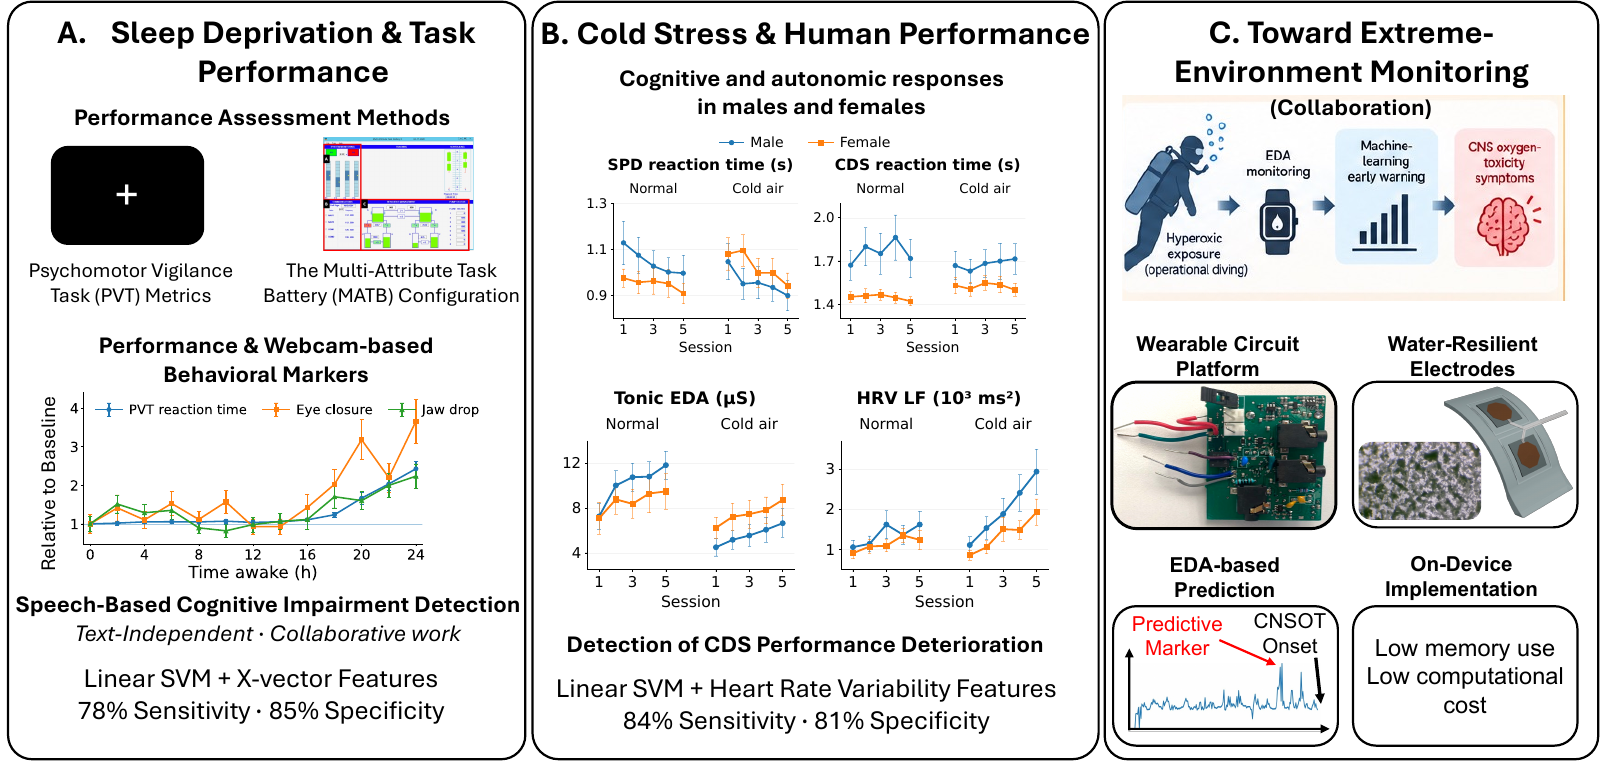
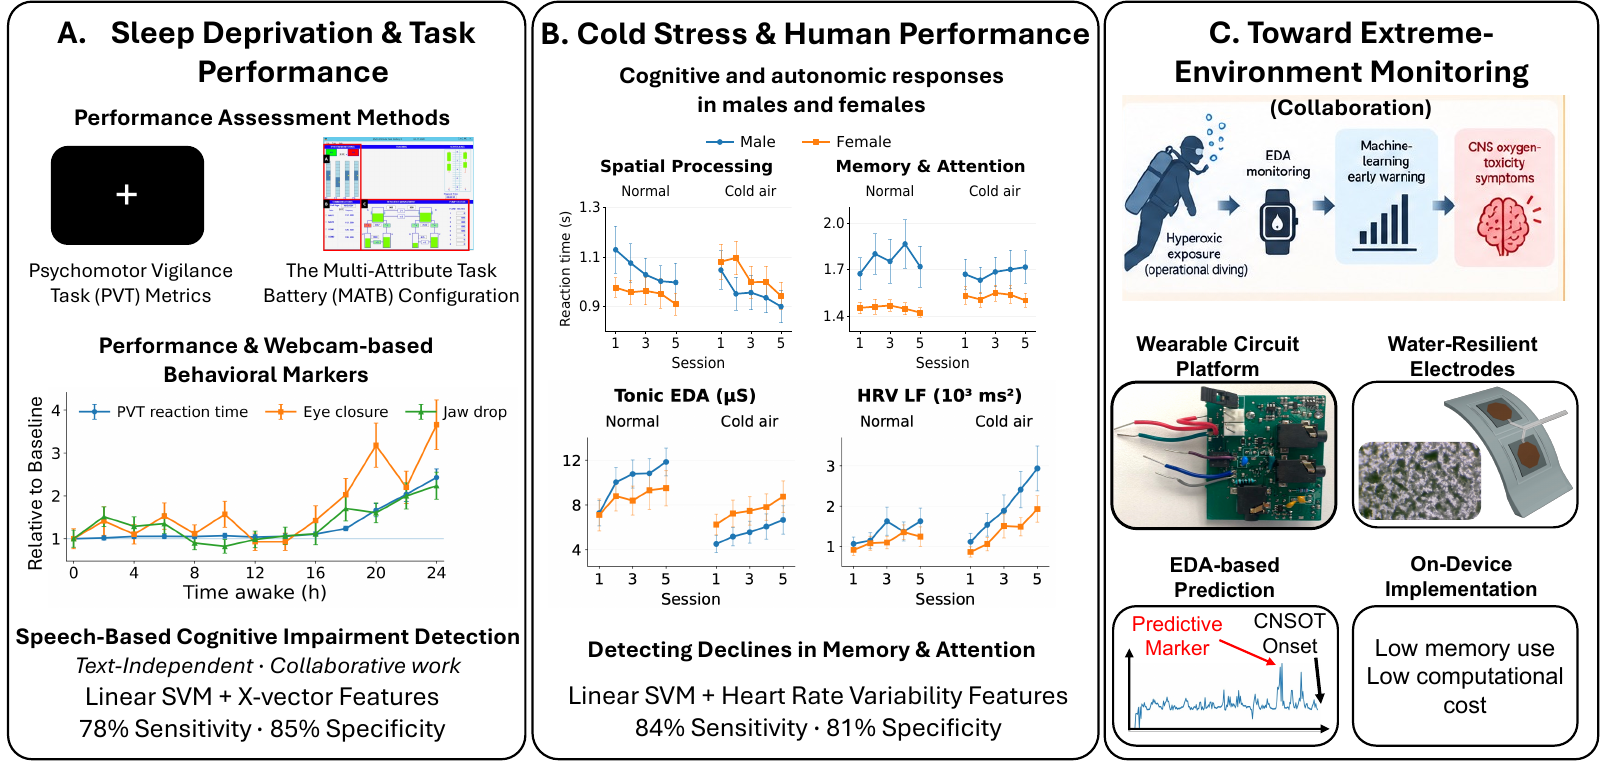
error fixed. CDS SPD terms removed

diff --git a/index.html b/index.html
@@ -124,7 +124,7 @@
     <p>I investigate how prolonged wakefulness and cold exposure affect human performance, using behavioral measurements, physiological signals, and machine learning. Collaborative engineering projects extend this work toward wearable monitoring and early warning of physiological risk in extreme environments. This line of work has been conducted in collaboration with U.S. Navy researchers.</p>
     <figure>
       <img src="images/research-fig5.png" alt="Sleep deprivation, cold stress, and extreme-environment monitoring studies" loading="lazy">
-      <figcaption><strong>Figure 5.</strong> (A) Sleep deprivation and task performance: PVT and MATB performance measures, webcam-based behavioral markers, and speech-based detection of cognitive impairment. (B) Cognitive and autonomic responses to cold-air exposure in males and females, with heart rate variability features used to detect CDS performance deterioration. (C) Collaborative work toward extreme-environment monitoring: a wearable circuit platform, water-resilient electrodes, and EDA-based prediction of CNS oxygen toxicity. PVT, psychomotor vigilance task; MATB, Multi-Attribute Task Battery; SPD, spatial discrimination, assessing spatial manipulation; CDS, code substitution, assessing immediate memory and attention; CNS, central nervous system; CNSOT, central nervous system oxygen toxicity. <em>Adapted from the publications listed below.</em></figcaption>
+      <figcaption><strong>Figure 5.</strong> (A) Sleep deprivation and task performance: PVT and MATB performance measures, webcam-based behavioral markers, and speech-based detection of cognitive impairment. (B) Spatial processing and memory-and-attention reaction times and autonomic responses during cold-air exposure in males and females, with heart rate variability features used to detect declines in memory and attention. (C) Collaborative work toward extreme-environment monitoring: a wearable circuit platform, water-resilient electrodes, and EDA-based prediction of CNS oxygen toxicity. PVT, psychomotor vigilance task; MATB, Multi-Attribute Task Battery; SVM, support vector machine; HRV LF, low-frequency power of heart rate variability; CNS, central nervous system; CNSOT, central nervous system oxygen toxicity. <em>Adapted from the publications listed below.</em></figcaption>
     </figure>
     <ul class="paper-list">
       <li><a href="https://doi.org/10.3758/s13414-020-02199-5" target="_blank" rel="noopener">Facial features and head movements obtained with a webcam correlate with performance deterioration during prolonged wakefulness</a> <span class="venue">Atten Percept Psychophys, 2021</span> <span class="tag tag-first">First author</span></li>
